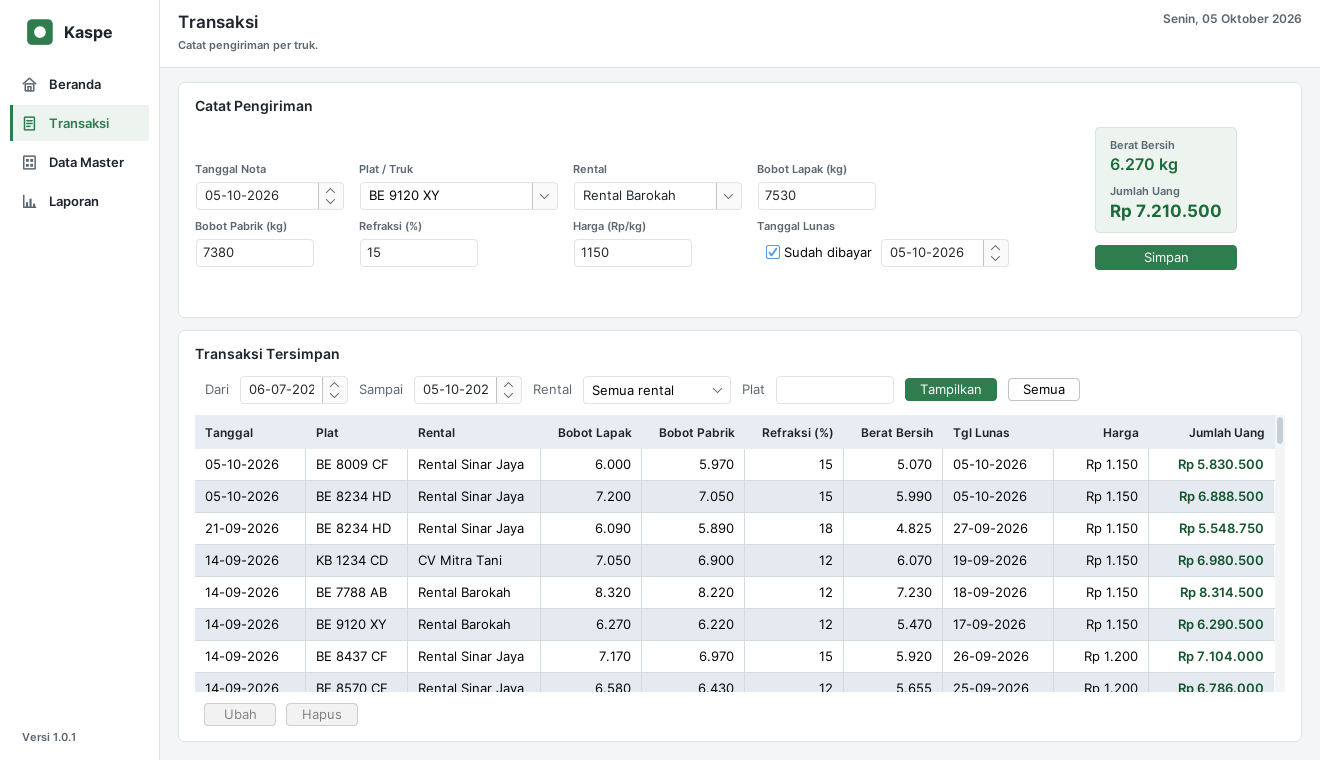
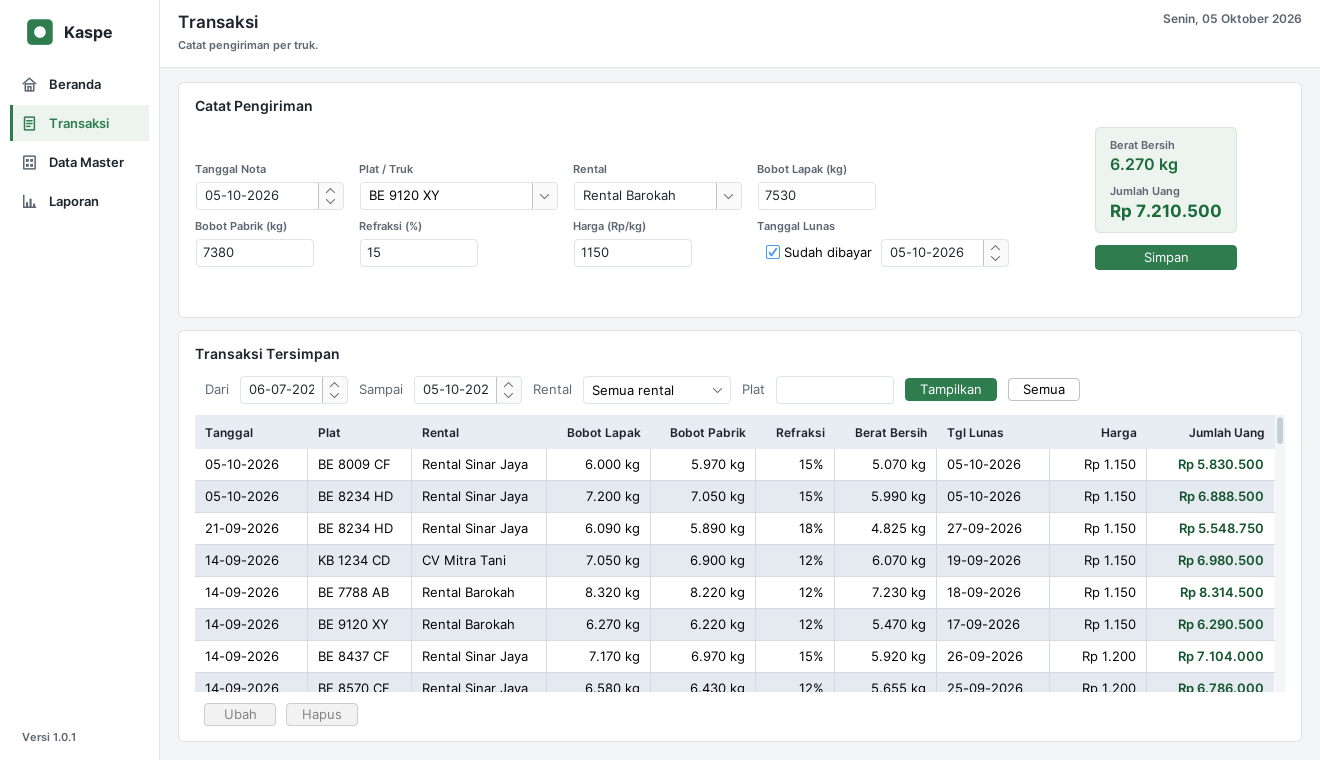
Narrow the refraksi column, move units into the cells, and verify the height floor
Refraksi was 93px for a two-digit number. The cause is that a column's width is
set by its longest string and the header "Refraksi (%)" was longer than any
value, so it, not the data, dictated the width. Header shortened to "Refraksi"
and the column is now 70px, which also lowers the window floor.

Units moved from the headers into the cells - "6.350 kg", "15%" - via
Calculator.formatKg and formatPercent, so both tables and the form cannot drift.
Putting "(kg)" in a header would widen three columns at once; inside the cell it
costs nothing, because the header stays the longest string. This matches the
money columns, which already write "Rp" per cell. TestUi's worst-case map now
holds the cell text with its unit, or it would measure a shorter string than what
is drawn.

Window floor re-measured after the narrowing: 1240 fails, 1241 passes, so
LEBAR_MINIMUM goes 1272 -> 1248.

TINGGI_MINIMUM was exercised by nothing - every layout ran at 760. Adding the
check exposed that my first attempt was vacuous: "the saved-deliveries list keeps
>= 80px" could not fail even at height 520, because below ~620px the OUTER page
scrolls and the list stops shrinking at 175px. A check that cannot fail is worse
than none, since it reads like a guarantee. Replaced with what actually matters:
at the minimum size the page must fit without scrolling (measured boundary 660,
so 700 stands). Verified it fails at 620 and passes at 660.

TestCalculator 7 -> 8, TestUi 34 -> 35. 305 lulus, 0 gagal.

diff --git a/preview/index.html b/preview/index.html
@@ -277,7 +277,7 @@ footer {
     <dl class="fakta">
       <div>
         <dt>Uji otomatis</dt>
-        <dd>303 lulus <span>0 gagal</span></dd>
+        <dd>305 lulus <span>0 gagal</span></dd>
       </div>
       <div>
         <dt>Bytecode</dt>

diff --git a/src/kaspe/test/TestUi.java b/src/kaspe/test/TestUi.java
@@ -172,6 +172,19 @@ public class TestUi {
                 kolomTabelUtuh(new PanelReport(), kaspe.ui.MainFrame.LEBAR_MINIMUM));
         check("kolom daftar tersimpan utuh pada lebar jendela minimum",
                 kolomTabelUtuh(new PanelTransaction(), kaspe.ui.MainFrame.LEBAR_MINIMUM));
+        // Tinggi minimum: yang diperiksa BUKAN "daftarnya cukup tinggi", karena daftarnya
+        // ternyata tidak pernah terhimpit - di bawah sekitar 620px halaman luarnya yang
+        // menggulir, dan tingginya berhenti di 175px. Pemeriksaan yang berbunyi "daftarnya
+        // paling sedikit 80px" karena itu tidak pernah bisa gagal, dan pemeriksaan yang
+        // tidak bisa gagal lebih buruk daripada tidak ada: ia terlihat seperti jaminan.
+        //
+        // Yang benar-benar diperiksa: pada tinggi minimum, seluruh halaman masih muat
+        // tanpa perlu digulir. Kalau tidak, tombol dan baris paling bawah hanya bisa
+        // dicapai dengan menggulir halaman - dan itu tidak terlihat di gambar pratinjau,
+        // yang selalu digambar pada tinggi bawaan.
+        check("halaman transaksi muat tanpa digulir pada ukuran jendela minimum",
+                muatTanpaGulir(new PanelTransaction(), "Transaksi",
+                        kaspe.ui.MainFrame.LEBAR_MINIMUM, kaspe.ui.MainFrame.TINGGI_MINIMUM));
 
         System.out.println("\n=== HASIL: " + passed + " lulus, " + failed + " gagal ===");
         System.out.println("Gambar ada di: " + out.toAbsolutePath());
@@ -281,6 +294,39 @@ public class TestUi {
             return false;
         }
         return cukupTinggi((JTable) field(p, "riwayatTable"), "daftar pengiriman tersimpan");
+    }
+
+    /**
+     * Benar kalau seluruh isi halaman muat pada ukuran jendela ini tanpa perlu digulir.
+     *
+     * <p>Halaman transaksi menaruh form dan daftarnya di dalam satu gulungan. Kalau tingginya
+     * kurang, gulungan itu yang bekerja - isinya tidak terpotong, tetapi bagian bawah halaman
+     * hanya bisa dicapai dengan menggulir, dan tombol yang paling bawah jadi tidak terlihat
+     * begitu halaman dibuka.
+     */
+    private static boolean muatTanpaGulir(JPanel panel, String nama, int lebar, int tinggi) {
+        PagePanel halaman = new PagePanel();
+        JPanel layar = PagePanel.shell(halaman);
+        halaman.showPanel(panel, nama, "keterangan");
+        layar.setSize(lebar, tinggi);
+        for (int i = 0; i < 3; i++) {
+            layar.doLayout();
+            layoutDeep(layar);
+        }
+
+        java.awt.Component gulung = cariDi(layar, javax.swing.JScrollPane.class);
+        if (!(gulung instanceof javax.swing.JScrollPane)) {
+            System.out.println("        tidak menemukan gulungan halaman di " + nama);
+            return false;
+        }
+        javax.swing.JScrollPane sp = (javax.swing.JScrollPane) gulung;
+        if (sp.getVerticalScrollBar().isVisible()) {
+            System.out.println("        pada " + lebar + "x" + tinggi + " halaman " + nama
+                    + " perlu digulir: isinya " + sp.getViewport().getView().getPreferredSize().height
+                    + "px, ruangnya " + sp.getViewport().getExtentSize().height + "px");
+            return false;
+        }
+        return true;
     }
 
     /** Benar kalau tabelnya benar-benar dapat tinggi yang terpakai, bukan hanya headernya. */
@@ -462,10 +508,14 @@ public class TestUi {
         TERBURUK.put("Tanggal", "00-00-0000");
         TERBURUK.put("Plat", "BE 0000 ZZ");
         TERBURUK.put("Rental", "Rental Sinar Jaya");
-        TERBURUK.put("Bobot Lapak", "00.000");
-        TERBURUK.put("Bobot Pabrik", "00.000");
-        TERBURUK.put("Refraksi (%)", "000");
-        TERBURUK.put("Berat Bersih", "00.000");
+        // Angka terburuk ditulis PERSIS seperti yang muncul di sel, termasuk satuannya:
+        // yang diukur adalah teks yang benar-benar tampil, jadi satuan yang tertinggal
+        // dari daftar ini akan membuat pemeriksaan mengukur teks yang lebih pendek
+        // daripada kenyataannya - dan pemotongan yang sungguhan lolos.
+        TERBURUK.put("Bobot Lapak", "00.000 kg");
+        TERBURUK.put("Bobot Pabrik", "00.000 kg");
+        TERBURUK.put("Refraksi", "000%");
+        TERBURUK.put("Berat Bersih", "00.000 kg");
         TERBURUK.put("Tgl Lunas", "00-00-0000");
         TERBURUK.put("Harga", "Rp 00.000");
         TERBURUK.put("Jumlah Uang", "Rp 00.000.000");

diff --git a/src/kaspe/ui/PanelReport.java b/src/kaspe/ui/PanelReport.java
@@ -34,7 +34,7 @@ public class PanelReport extends JPanel {
 
     private final DefaultTableModel model = new DefaultTableModel(
             new Object[]{"Tanggal", "Plat", "Rental", "Bobot Lapak", "Bobot Pabrik",
-                    "Refraksi (%)", "Berat Bersih", "Tgl Lunas", "Harga", "Jumlah Uang"}, 0) {
+                    "Refraksi", "Berat Bersih", "Tgl Lunas", "Harga", "Jumlah Uang"}, 0) {
         @Override
         public boolean isCellEditable(int r, int c) {
             return false;
@@ -88,7 +88,7 @@ public class PanelReport extends JPanel {
         // Batasnya: nama rental di atas ~18 huruf akan terpotong, dan angka di atas
         // 100 juta juga. Kalau suatu saat itu terjadi, tambah kolom atau pendekkan judulnya,
         // jangan kecilkan kolom yang lain.
-        Theme.widths(table, 105, 96, 127, 95, 97, 93, 93, 105, 88, 120);
+        Theme.widths(table, 105, 96, 127, 95, 97, 70, 93, 105, 88, 120);
         Theme.alignRight(table, 3, 4, 5, 6, 8, 9);
         // Kolom uang ditegaskan. Ketebalan huruf yang menonjolkannya, bukan warnanya -
         // di kertas warnanya menjadi abu-abu dan yang tersisa hanya ketebalannya.
@@ -231,8 +231,8 @@ public class PanelReport extends JPanel {
                 model.addRow(new Object[]{
                         Dates.format(b.getDate()),
                         b.getPlate(), b.getRentalName(),
-                        Calculator.formatCurrency(b.getFieldWeight()), Calculator.formatCurrency(b.getFactoryWeight()),
-                        Calculator.formatCurrency(b.getRefractionPercent()), Calculator.formatCurrency(b.getNetWeight()),
+                        Calculator.formatKg(b.getFieldWeight()), Calculator.formatKg(b.getFactoryWeight()),
+                        Calculator.formatPercent(b.getRefractionPercent()), Calculator.formatKg(b.getNetWeight()),
                         Dates.format(b.getPaymentDate()), "Rp " + Calculator.formatCurrency(b.getPrice()),
                         "Rp " + Calculator.formatCurrency(b.getTotalAmount())});
                 totalAmount = totalAmount.add(b.getTotalAmount() == null ? BigDecimal.ZERO : b.getTotalAmount());

diff --git a/src/kaspe/ui/PanelTransaction.java b/src/kaspe/ui/PanelTransaction.java
@@ -88,7 +88,7 @@ public class PanelTransaction extends JPanel {
      */
     private final DefaultTableModel riwayatModel = new DefaultTableModel(
             new Object[]{"Id", "Tanggal", "Plat", "Rental", "Bobot Lapak", "Bobot Pabrik",
-                    "Refraksi (%)", "Berat Bersih", "Tgl Lunas", "Harga", "Jumlah Uang"}, 0) {
+                    "Refraksi", "Berat Bersih", "Tgl Lunas", "Harga", "Jumlah Uang"}, 0) {
         @Override
         public boolean isCellEditable(int r, int c) {
             return false;
@@ -443,7 +443,7 @@ public class PanelTransaction extends JPanel {
         Theme.styleTable(riwayatTable);
         // Lebar kolom sama dengan tabel laporan — sudah teruji muat utuh di jendela
         // bawaan — dengan satu angka 0 di depan untuk kolom id yang disembunyikan.
-        Theme.widths(riwayatTable, 0, 105, 96, 127, 95, 97, 93, 93, 105, 88, 120);
+        Theme.widths(riwayatTable, 0, 105, 96, 127, 95, 97, 70, 93, 105, 88, 120);
         sembunyikanKolomId();
         // Semua nomor kolom bergeser satu karena kolom id tersembunyi di depannya.
         // Keseleo satu angka di sini tidak ditangkap uji apa pun — hati-hati.
@@ -547,8 +547,8 @@ public class PanelTransaction extends JPanel {
                     b.getDetailId(),
                     Dates.format(b.getDate()),
                     b.getPlate(), b.getRentalName(),
-                    Calculator.formatCurrency(b.getFieldWeight()), Calculator.formatCurrency(b.getFactoryWeight()),
-                    Calculator.formatCurrency(b.getRefractionPercent()), Calculator.formatCurrency(b.getNetWeight()),
+                    Calculator.formatKg(b.getFieldWeight()), Calculator.formatKg(b.getFactoryWeight()),
+                    Calculator.formatPercent(b.getRefractionPercent()), Calculator.formatKg(b.getNetWeight()),
                     Dates.format(b.getPaymentDate()), "Rp " + Calculator.formatCurrency(b.getPrice()),
                     "Rp " + Calculator.formatCurrency(b.getTotalAmount())});
         }

diff --git a/src/kaspe/ui/MainFrame.java b/src/kaspe/ui/MainFrame.java
@@ -18,14 +18,29 @@ public class MainFrame extends JFrame {
      * dan isinya terpotong; pada tabel laporan pemotongan itu ikut ke kertas, karena
      * pencetakan memakai {@code FIT_WIDTH} yang memperkecil tabel apa adanya.
      *
-     * <p>Yang paling menuntut adalah tabel-tabel itu: 1264px adalah lebar terkecil yang
+     * <p>Yang paling menuntut adalah tabel-tabel itu: 1241px adalah lebar terkecil yang
      * masih menampilkan seluruh kolomnya utuh. Diberi kelonggaran sedikit supaya perubahan
      * lebar kolom yang wajar tidak langsung menggagalkan pengujian, tetapi tidak lebih -
      * lebar ini membatasi berapa kecil jendelanya boleh dikecilkan.
+     *
+     * <p>Angkanya diukur, bukan diperkirakan: batasnya dicari dengan menguji satu per satu
+     * sampai pengujiannya berhenti gagal. Mengubah lebar kolom tabel atau lebar isian form
+     * menggeser angka ini, dan {@code TestUi} menguji seluruh halaman persis pada lebar ini.
      */
-    public static final int LEBAR_MINIMUM = 1272;
+    public static final int LEBAR_MINIMUM = 1248;
 
-    /** Tinggi jendela terkecil yang masih menyisakan ruang untuk daftar di bawah form. */
+    /**
+     * Tinggi jendela terkecil yang masih memuat seluruh halaman transaksi tanpa digulir.
+     *
+     * <p>Batasnya 660px: di bawah itu halaman luarnya mulai menggulir, sehingga tombol dan
+     * baris paling bawah hanya bisa dicapai dengan menggulir. Diberi kelonggaran supaya
+     * halaman masih terasa lega, bukan pas-pasan.
+     *
+     * <p>Perhatikan apa yang TIDAK terjadi di bawah batas ini: daftar pengiriman tersimpan
+     * tidak pernah terhimpit. Di bawah sekitar 620px tingginya berhenti di 175px dan halaman
+     * luarnya yang menggulir. Karena itu "daftarnya cukup tinggi" bukan pemeriksaan yang
+     * berarti di sini - ia tidak pernah bisa gagal. Yang diperiksa adalah "muat tanpa digulir".
+     */
     public static final int TINGGI_MINIMUM = 700;
 
     private final PagePanel page = new PagePanel();

diff --git a/src/kaspe/test/TestCalculator.java b/src/kaspe/test/TestCalculator.java
@@ -27,6 +27,11 @@ public class TestCalculator {
         System.out.println("\n--- uji tambahan ---");
         checkShrinkage(7200, 7050, 150);
         checkCurrency(new BigDecimal("6888500"), "6.888.500");
+        // Satuan ditulis di dalam sel tabel, bukan di judul kolomnya: judul kolom yang
+        // menentukan lebar kolom, jadi menaruh "(kg)" di judul melebarkan tiga kolom
+        // sekaligus. Diperiksa di sini supaya kedua halaman yang memakainya - transaksi
+        // dan laporan - tidak bisa menampilkan satuan yang berbeda.
+        checkSatuan(new BigDecimal("7530"), "7.530 kg", new BigDecimal("15"), "15%");
         checkRefractionError();
 
         System.out.println("\n=== HASIL: " + passed + " lulus, " + failed + " gagal ===");
@@ -62,6 +67,17 @@ public class TestCalculator {
         boolean ok = s.equals(expected);
         System.out.printf("format rupiah %s -> %s (harap %s) %s%n", v.toPlainString(), s, expected, ok ? "OK" : "SALAH");
         record(ok, "format rupiah");
+    }
+
+    private static void checkSatuan(BigDecimal berat, String harapBerat,
+                                   BigDecimal refraksi, String harapRefraksi) {
+        String b = Calculator.formatKg(berat);
+        String r = Calculator.formatPercent(refraksi);
+        boolean ok = b.equals(harapBerat) && r.equals(harapRefraksi);
+        System.out.printf("satuan: bobot %s -> \"%s\" (harap \"%s\"), refraksi %s -> \"%s\" (harap \"%s\") %s%n",
+                berat.toPlainString(), b, harapBerat, refraksi.toPlainString(), r, harapRefraksi,
+                ok ? "OK" : "SALAH");
+        record(ok, "satuan bobot dan refraksi");
     }
 
     private static void checkRefractionError() {

diff --git a/src/kaspe/Calculator.java b/src/kaspe/Calculator.java
@@ -80,4 +80,21 @@ public final class Calculator {
         }
         return String.format("%,.0f", value).replace(',', '.');
     }
+
+    /**
+     * Angka bobot beserta satuannya, mis. {@code 7.530 kg}.
+     *
+     * <p>Satuannya ditulis di selnya, bukan di judul kolomnya. Judul kolom yang menentukan
+     * lebar kolom - menambahkan "(kg)" di judul melebarkan tiga kolom sekaligus, sedangkan
+     * di dalam sel muat tanpa menambah lebar sama sekali karena judulnya tetap yang
+     * terpanjang. Ini juga sejalan dengan kolom uang, yang sudah menulis "Rp" di selnya.
+     */
+    public static String formatKg(BigDecimal value) {
+        return formatCurrency(value) + " kg";
+    }
+
+    /** Angka refraksi beserta tanda persennya, mis. {@code 15%}. */
+    public static String formatPercent(BigDecimal value) {
+        return formatCurrency(value) + "%";
+    }
 }

diff --git a/preview/build-preview.py b/preview/build-preview.py
@@ -315,7 +315,7 @@ footer {
     <dl class="fakta">
       <div>
         <dt>Uji otomatis</dt>
-        <dd>303 lulus <span>0 gagal</span></dd>
+        <dd>305 lulus <span>0 gagal</span></dd>
       </div>
       <div>
         <dt>Bytecode</dt>

diff --git a/README.md b/README.md
@@ -596,12 +596,12 @@ pemasangan apa pun.
 
 | Berkas uji | Cakupan | Hasil |
 |------------|---------|-------|
-| `TestCalculator` | rumus berat bersih, jumlah uang, susut, validasi | 7 lulus |
+| `TestCalculator` | rumus berat bersih, jumlah uang, susut, satuan bobot/refraksi, validasi | 8 lulus |
 | `TestDatabase` | pembuatan tabel otomatis, skema, view, foreign key, pembersihan kolom lama (nomor nota, view lama ikut diuji), perapian database lama jadi satu catatan per pengiriman (jumlah dan total uang tidak berubah, waktu pencatatan asli ikut pindah, aman diulang) | 56 lulus |
 | `TestDao` | master, plat diketik langsung (termasuk ejaan lama), ganti pemilik truk, tambah rental tidak menimpa rental lama, nama/plat kembar ditolak, simpan transaksi, rollback, laporan, rekap, hapus, ubah pengiriman, hapus sekaligus yang tuntas, daftar pengiriman terbaru dulu, saringan tanggal/rental/plat (rental dicocok persis dan tanpa beda huruf besar-kecil, plat sebagian termasuk ejaan lama berspasi berlebih, hasilnya sama dengan jumlah di database), penghapusan truk/rental yang beriwayat ditolak dan riwayatnya tetap utuh, cadangan database ditolak di luar H2 dengan pesan yang jelas, cadangan sungguhan pada H2 berbasis berkas (zip terisi, tidak menimpa) | 91 lulus |
-| `TestUi` | panel tampilan tergambar, bilah halaman, huruf, pratinjau cetak, lebar kolom tabel, tinggi daftar pengiriman tersimpan, jumlah baris laporan ikut terisi, kaki cetak menyebut saringan rental/plat, tombol tidak terpotong wadahnya, kolom tabel utuh pada lebar jendela minimum, judul bilah atas ikut pindah halaman, baris menu bilah samping, pemilihan baris data master, truk tanpa pemilik ditolak, pindah pemilik truk, angka bulan berjalan di beranda, kesesuaian rental dengan plat, dan nama rental yang diketik | 34 lulus |
+| `TestUi` | panel tampilan tergambar, bilah halaman, huruf, pratinjau cetak, lebar kolom tabel, tinggi daftar pengiriman tersimpan, jumlah baris laporan ikut terisi, kaki cetak menyebut saringan rental/plat, tombol tidak terpotong wadahnya, kolom tabel utuh dan halaman muat tanpa digulir pada ukuran jendela minimum, judul bilah atas ikut pindah halaman, baris menu bilah samping, pemilihan baris data master, truk tanpa pemilik ditolak, pindah pemilik truk, angka bulan berjalan di beranda, kesesuaian rental dengan plat, dan nama rental yang diketik | 35 lulus |
 | `TestAlur` | satu Simpan jadi satu catatan, truk dan tanggal sama tetap dua catatan, form dikosongkan setelah simpan (tanggal tetap), simpan kedua tidak menggandakan, ubah menulis tanpa menambah, Batal tidak mengubah apa pun, hapus yang dipilih, pilihan menentukan tombol, id baris dibaca dari model, saringan daftar (rental baru langsung muncul; batas di luar jangkauan data dirapikan; jangkauan yang gagal dibaca tidak menggeser batas), catatan tersembunyi oleh saringan diberitahu, rental wajib diisi, pemilik berbeda ditolak, tanggal tidak valid ditolak, belum lunas tersimpan, isian tidak hilang saat pindah halaman | 115 lulus |
-| **Total** | | **303 lulus, 0 gagal** |
+| **Total** | | **305 lulus, 0 gagal** |
 
 ---
 

diff --git a/docs/specification.md b/docs/specification.md
@@ -121,9 +121,9 @@ Seluruh uji dijalankan lewat `./test.sh` dan lulus tanpa kegagalan:
 
 | Berkas uji | Cakupan | Hasil |
 |------------|---------|-------|
-| TestCalculator | rumus berat bersih, jumlah uang, susut, validasi | 7 lulus |
+| TestCalculator | rumus berat bersih, jumlah uang, susut, satuan bobot/refraksi, validasi | 8 lulus |
 | TestDatabase | pembuatan tabel otomatis, skema, view, foreign key, pembersihan kolom lama (nomor nota, view lama ikut diuji), perapian database lama menjadi satu catatan per pengiriman (jumlah dan total uang tidak berubah, waktu pencatatan asli ikut pindah, aman dijalankan berulang) | 56 lulus |
 | TestDao | master, plat diketik langsung (termasuk ejaan lama), ganti pemilik truk, tambah rental tidak menimpa rental lama, nama/plat kembar ditolak, simpan transaksi, rollback, laporan, rekap, hapus, ubah pengiriman (hitungan diulang, tanggal ikut pindah, rental tidak tertimpa), hapus sekaligus yang tuntas, daftar pengiriman terbaru dulu, saringan tanggal/rental/plat (termasuk plat ejaan lama dan rental tanpa beda huruf besar-kecil), penolakan hapus truk/rental yang beriwayat, penolakan cadangan di luar H2, cadangan sungguhan pada H2 berbasis berkas | 91 lulus |
-| TestUi | panel tampilan tergambar, bilah halaman, huruf, pratinjau cetak, lebar kolom tabel, tinggi daftar pengiriman tersimpan, tombol tidak terpotong wadahnya, kolom tabel utuh pada lebar jendela minimum, judul bilah atas ikut pindah halaman, baris menu bilah samping, pemilihan baris data master, truk tanpa pemilik ditolak, pindah pemilik truk, angka bulan berjalan di beranda, kesesuaian rental dengan plat, dan nama rental yang diketik | 34 lulus |
+| TestUi | panel tampilan tergambar, bilah halaman, huruf, pratinjau cetak, lebar kolom tabel, tinggi daftar pengiriman tersimpan, tombol tidak terpotong wadahnya, kolom tabel utuh dan halaman muat tanpa digulir pada ukuran jendela minimum, judul bilah atas ikut pindah halaman, baris menu bilah samping, pemilihan baris data master, truk tanpa pemilik ditolak, pindah pemilik truk, angka bulan berjalan di beranda, kesesuaian rental dengan plat, dan nama rental yang diketik | 35 lulus |
 | TestAlur | satu Simpan jadi satu catatan, truk dan tanggal sama tetap dua catatan, form dikosongkan setelah simpan (tanggal tetap), simpan kedua tidak menggandakan, ubah menulis tanpa menambah, Batal tidak mengubah apa pun, hapus yang dipilih, pilihan menentukan tombol, id baris dibaca dari model, saringan daftar (rental baru langsung muncul, batas dirapikan), rental wajib diisi, pemilik berbeda ditolak, tanggal tidak valid ditolak, belum lunas tersimpan, isian tidak hilang saat pindah halaman | 115 lulus |
-| **Total** | | **303 lulus, 0 gagal** |
+| **Total** | | **305 lulus, 0 gagal** |

diff --git a/AGENTS.md b/AGENTS.md
@@ -158,6 +158,11 @@ starts with `DELETE`, so it wipes the target database.
 ## Code Conventions & Common Patterns
 
 - **Java 8 API only.** No `var`, no `List.of`, no records, no `java.nio.file` shortcuts beyond 8.
+- **Units live in the cells, not the column headers** (`Calculator.formatKg`, `formatPercent`) — the
+  header text is what sets a column's width, so a "(kg)" in the header widens three columns at once,
+  while the same unit inside the cell costs nothing because the header stays the longest string. This
+  matches the money columns, which already write "Rp" in each cell. `TestUi`'s worst-case map must
+  therefore hold the cell text *with* its unit, or it measures a shorter string than what is drawn.
 - **Money and weights are always `BigDecimal`**, never `double`; columns are `DECIMAL`.
   Display money with `Calculator.formatCurrency` (`6888500` → `"6.888.500"`).
 - **Dates**: `LocalDate` in code, `java.sql.Date` only at the JDBC boundary, `util.Dates.format/parse`
@@ -320,8 +325,8 @@ CP="build:lib/*"
 "$JAVA_HOME/bin/java" -Djava.awt.headless=true -cp "$CP" kaspe.test.TestUi
 ```
 
-`set -e` means the first failing class aborts the run. Expected baseline: `TestCalculator` 7,
-`TestDatabase` 56, `TestDao` 91, `TestAlur` 115, `TestUi` 34 — **303 lulus, 0 gagal**.
+`set -e` means the first failing class aborts the run. Expected baseline: `TestCalculator` 8,
+`TestDatabase` 56, `TestDao` 91, `TestAlur` 115, `TestUi` 35 — **305 lulus, 0 gagal**.
 
 - Tests use in-memory H2 only (`mem:kaspe`, `mem:daotest`, `mem:uitest`) and configure it via the
   test hook `Db.setConfiguration(driver, url, user, pass)`; they never touch the user's real
